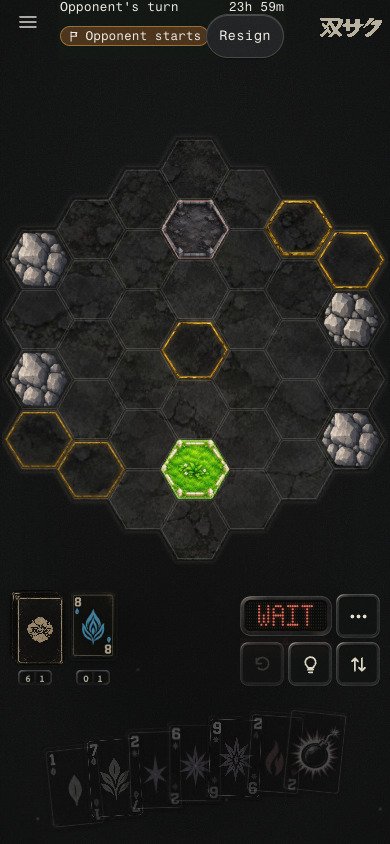
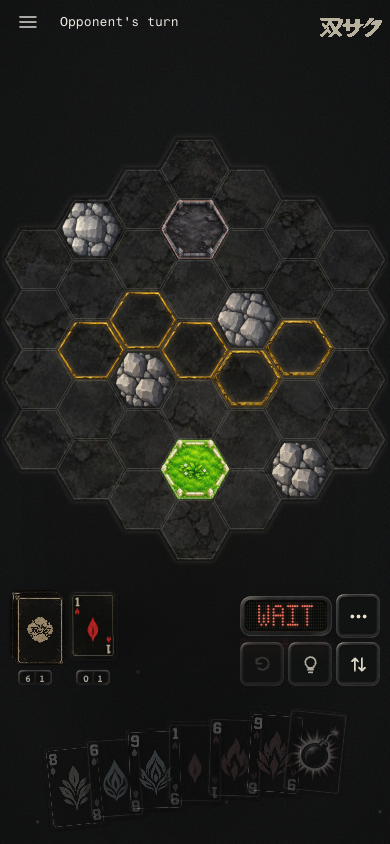
Remove the greenish frame across the top of the duel
The duel status strip painted an opaque green-tinted panel behind itself
(#161a16 at 92%), so it read as a visible rectangle across the top of the screen
- the "frame, greenish typa" the owner saw. The comment above it claimed there was
no frame; the fill was the frame.

.duel-hud now carries no background, border, radius or shadow at all: the words sit
on the header's own surface, exactly like the menu button and the brand beside them.
Evidence: docs/screens/online/hud-strip-* and hud-top-* (before/after at 390x844 and
1280x800), the regenerated hud-overlap-after-*.png, and the overlap suite: 120 checks
pass, so the strip still never covers the menu button, the logo or the board.

diff --git a/web/src/online/online-css.ts b/web/src/online/online-css.ts
@@ -203,10 +203,14 @@ export const ONLINE_CSS = `
   margin-top: 0.4rem;
 }
 /* The duel status row: a slim strip that sits IN the fixed header row, between the 44px menu
-   button (left) and the brand/logo (right), so it can never cover either. No frame or border
-   contour — the same dark glass as the rest of the product. Trimmed after the two-phone playtest:
-   the opponent's name, the turn word and the presence indicator only. Resign lives in the pause
-   menu; who-starts is said once by the lottery reveal; the deadline lives in the match list. */
+   button (left) and the brand/logo (right), so it can never cover either. Trimmed after the
+   two-phone playtest: the opponent's name, the turn word and the presence indicator only. Resign
+   lives in the pause menu; who-starts is said once by the lottery reveal; the deadline lives in
+   the match list.
+   NO BOX: the strip carries no background, border, radius or shadow of its own, so it reads as
+   the header's own text. It used to paint a green-tinted dark panel behind itself, which the owner
+   saw as a "greenish frame" across the top of the screen; the words simply sit on the header now,
+   exactly like the menu button and the brand beside them. */
 .duel-hud {
   position: fixed;
   top: env(safe-area-inset-top, 0px);
@@ -225,8 +229,9 @@ export const ONLINE_CSS = `
   line-height: 1.15;
   min-height: 44px;
   overflow: visible;
-  background: color-mix(in srgb, #161a16 92%, #000);
+  background: none; /* see above: no frame, no fill — the header's own surface shows through */
   border: 0;
+  box-shadow: none;
 }
 .duel-hud > * {
   min-width: 0;
